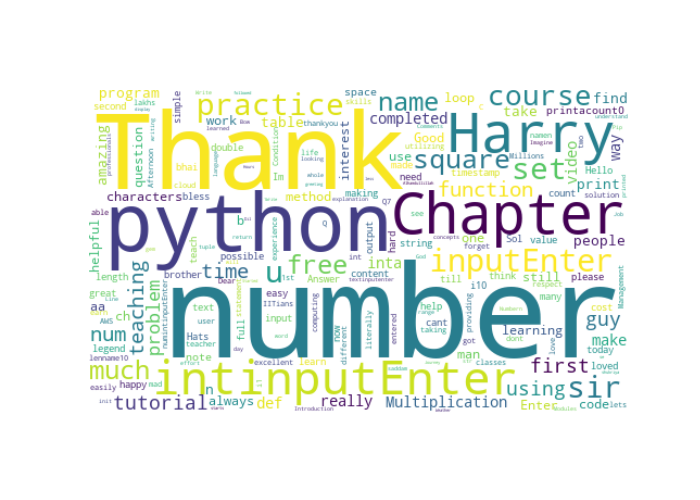
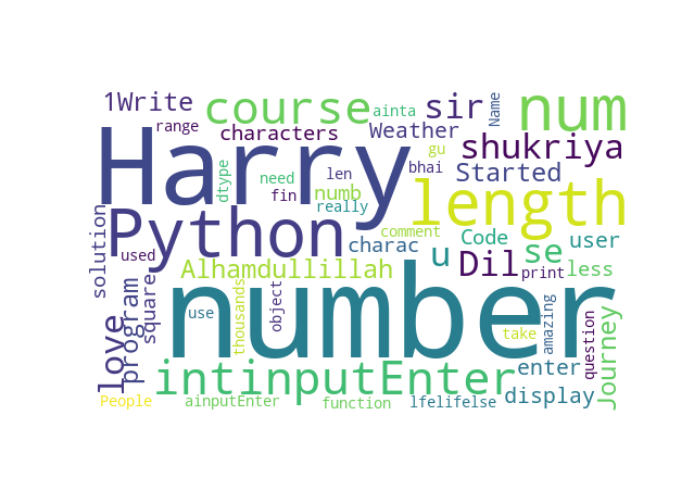
second

Changed region(s): [[0.12, 0.18, 0.9, 0.84], [0.45, 0.63, 0.48, 0.66]]

diff --git a/templates/deepanalyser.html b/templates/deepanalyser.html
@@ -106,11 +106,19 @@
       <br>
       <img src="../static/output/pythonvideo1/graph.png" alt="Graph1 not Generated">
         </center>
-
+        <center>
+          <br>
+          <h2>Scattered Plot</h2>
+          <img src="../static/output/pythonvideo1/scatteredplot.png" alt="scatteredplot2 not Generated">
+        </center>
+        <center>
+          <br>
+          <h2>Word Cloud</h2>
+          <img src="../static/output/pythonvideo1/wordcloud.png" alt="wordcloud2 not Generated">
+        </center>
       </div>
       <div class="col">
         <center>
-
           <h2>Code With Harry Python Video</h2>
           <div class="details">
 
@@ -128,7 +136,18 @@
 
       <br>
       {{result_text}}
+      <br>
       <img src="../static/output/pythonvideo2/graph.png" alt="Graph2 not Generated">
+        </center>
+        <center>
+          <br>
+          <h2>Scattered Plot</h2>
+          <img src="../static/output/pythonvideo2/scatteredplot.png" alt="scatteredplot2 not Generated">
+        </center>
+        <center>
+          <br>
+          <h2>Word Cloud</h2>
+          <img src="../static/output/pythonvideo2/wordcloud.png" alt="wordcloud2 not Generated">
         </center>
 
       </div>

diff --git a/YCAML/views.py b/YCAML/views.py
@@ -109,7 +109,7 @@ def scrape(url,filename1):
 
 def createWordCloud(df,outpath):
     try:
-        text2 = " ".join(title for title in df.comment)
+        text2=str(df.comment)
         word_cloud2 = WordCloud(width=500,height=300,random_state=21,max_font_size=119,collocations = False, background_color = 'white').generate(text2)
         plt.imshow(word_cloud2, interpolation='bilinear')
         plt.axis("off")
@@ -429,34 +429,84 @@ def deepanalyser(request):
     context['likecount2']=result_apnacollege[5]
     context['commentcount2']=result_apnacollege[6]
 
+
+###First Python Video
     file1="deepdatasets/deepoutput_codewithharry_pythonvideo1.csv"
     file2="deepdatasets/deepfinal/final_deepoutput_codewithharry_pythonvideo1.csv"
     df1=pd.read_csv(file1)
+
     filefrom=file1
     fileto=file2
-    createFinalCsv(df1,filefrom,fileto)
+
+    csvexits1=Path("deepdatasets/deepfinal/final_deepoutput_codewithharry_pythonvideo1.csv")
+    if csvexits1.exists():
+        pass
+    else:
+        createFinalCsv(df1,filefrom,fileto)
 
     df9=pd.read_csv(file2)
     outpath="static/output/pythonvideo1/"
-    createWordCloud(df9,outpath)
-    createHistogram(df9,outpath)
-    createScatteredPlot(df9,outpath)
-    result_text=createGraph(df9,outpath)
+
+    graphexist1 = Path("static/output/pythonvideo1/graph.png")
+    if graphexist1.exists():
+        pass
+    else:
+        result_text=createGraph(df9,outpath)
+    
+    wordexist1 = Path("static/output/pythonvideo1/wordcloud.png")
+    if wordexist1.exists():
+        pass
+    else:
+        createWordCloud(df9,outpath)
+        # createHistogram(df9,outpath)
+    
+    scatterexist1 = Path("static/output/pythonvideo1/scatteredplot.png")
+    if scatterexist1.exists():
+        pass
+    else:
+        createScatteredPlot(df9,outpath)
 
 
+
+
+
+####Second Python Video
     file3="deepdatasets/deepoutput_apnacollege_pythonvideo.csv"
     file4="deepdatasets/deepfinal/deepoutput_apnacollege_pythonvideo.csv"
 
     df5=pd.read_csv(file3)
     filefrom5=file3
     fileto5=file4
-    createFinalCsv(df5,filefrom5,fileto5)
+
+    csvexits2=Path("deepdatasets/deepfinal/deepoutput_apnacollege_pythonvideo.csv")
+    if csvexits2.exists():
+        pass
+    else:
+        createFinalCsv(df5,filefrom5,fileto5)
+
 
     df6=pd.read_csv(file4)
     outpath5="static/output/pythonvideo2/"
-    createWordCloud(df6,outpath5)
-    createHistogram(df6,outpath5)
-    createScatteredPlot(df6,outpath5)
-    result_text=createGraph(df6,outpath5)
-    # context['data']='After Datatable'
+    
+    # createHistogram(df6,outpath5)
+
+    graphexist2 = Path("static/output/pythonvideo2/graph.png")
+    if graphexist2.exists():
+        pass
+    else:
+        result_text=createGraph(df6,outpath5)
+    
+    wordexist2 = Path("static/output/pythonvideo2/wordcloud.png")
+    if wordexist2.exists():
+        pass
+    else:
+        createWordCloud(df6,outpath5)
+        # createHistogram(df6,outpath5)
+    
+    scatterexist2 = Path("static/output/pythonvideo2/scatteredplot.png")
+    if scatterexist2.exists():
+        pass
+    else:
+        createScatteredPlot(df6,outpath5)
+
     return render(request,"deepanalyser.html",context)

diff --git a/preprocess.py b/preprocess.py
@@ -78,13 +78,34 @@ from matplotlib.pyplot import figure
 #     nlist=[]
 #     df50=pd.read_csv("normaldatasets/final_output.csv")
 
-df=pd.read_csv('deepdatasets/deepfinal/deepoutput_apnacollege_pythonvideo.csv')
-# print(' '.join(title for title in df.comment))
-# temp=" ".join(title[data["stars"]]["text"].values) 
-text2 = " ".join(title for title in df.comment)
-print(text2)
+
+# df=pd.read_csv('deepdatasets/deepfinal/deepoutput_apnacollege_pythonvideo.csv')
+# text2=str(df.comment)
 # word_cloud2 = WordCloud(width=500,height=300,random_state=21,max_font_size=119,collocations = False, background_color = 'white').generate(text2)
 # plt.imshow(word_cloud2, interpolation='bilinear')
 # plt.axis("off")
 # plt.show()
 # plt.close()
+
+# df=pd.read_csv('deepdatasets/deepfinal/final_deepoutput_codewithharry_pythonvideo1.csv')
+# description_list = df['comment'].values.tolist()
+# # print(description_list)
+# word_frequency = Counter(" ".join(description_list).split()).most_common(10)
+# print(word_frequency)
+# words = [word for word, _ in word_frequency]
+# counts = [counts for _, counts in word_frequency]
+
+# # words=[text2]
+# # counts=[20,30,40,50,60]
+# plt.bar(words, counts)
+# plt.title("10 most frequent Words in Comments")
+# plt.ylabel("Frequency")
+# plt.xlabel("Words")
+# plt.show()
+# # plt.savefig(outpath+"histogram.png")
+# plt.close()
+
+
+pd.DataFrame.hist(column='comment')
+pd.DataFrame.plot(kind='hist')
+pd.DataFrame.plot.hist()
